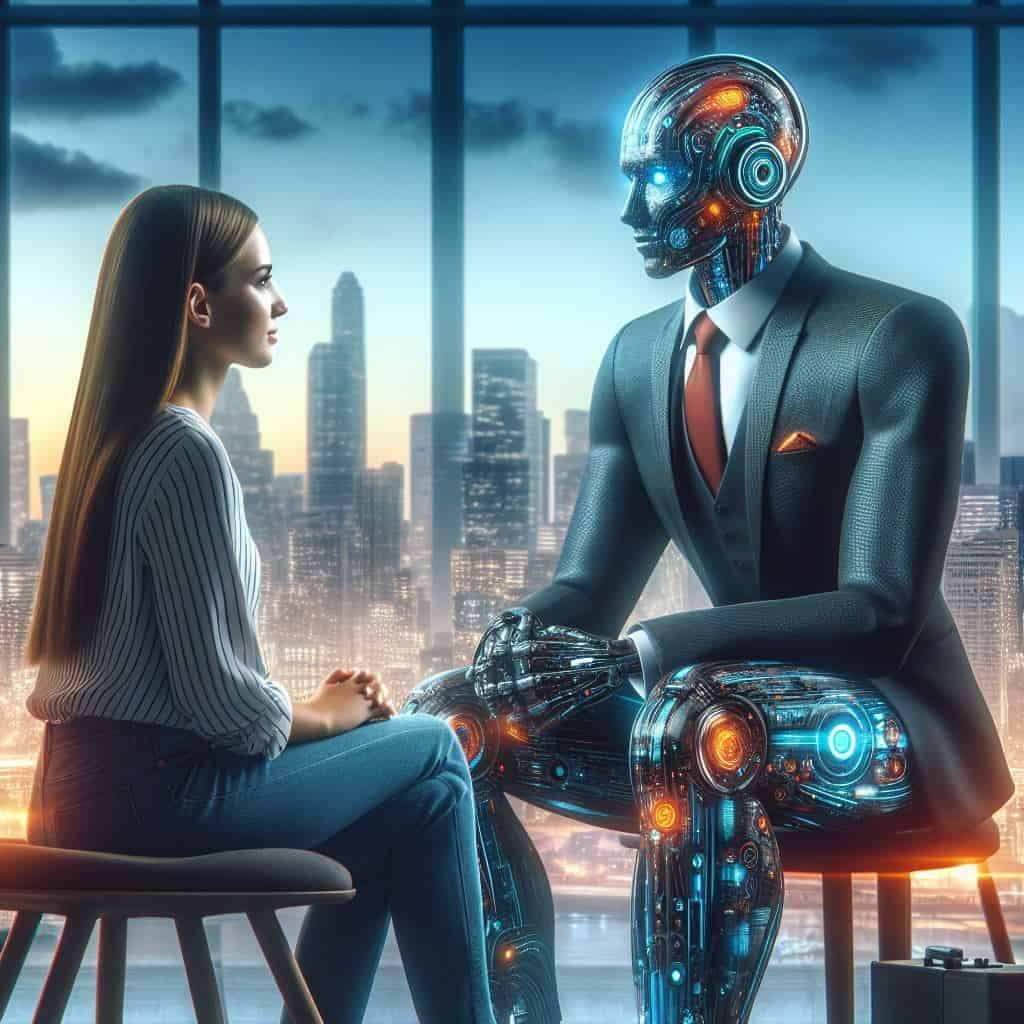
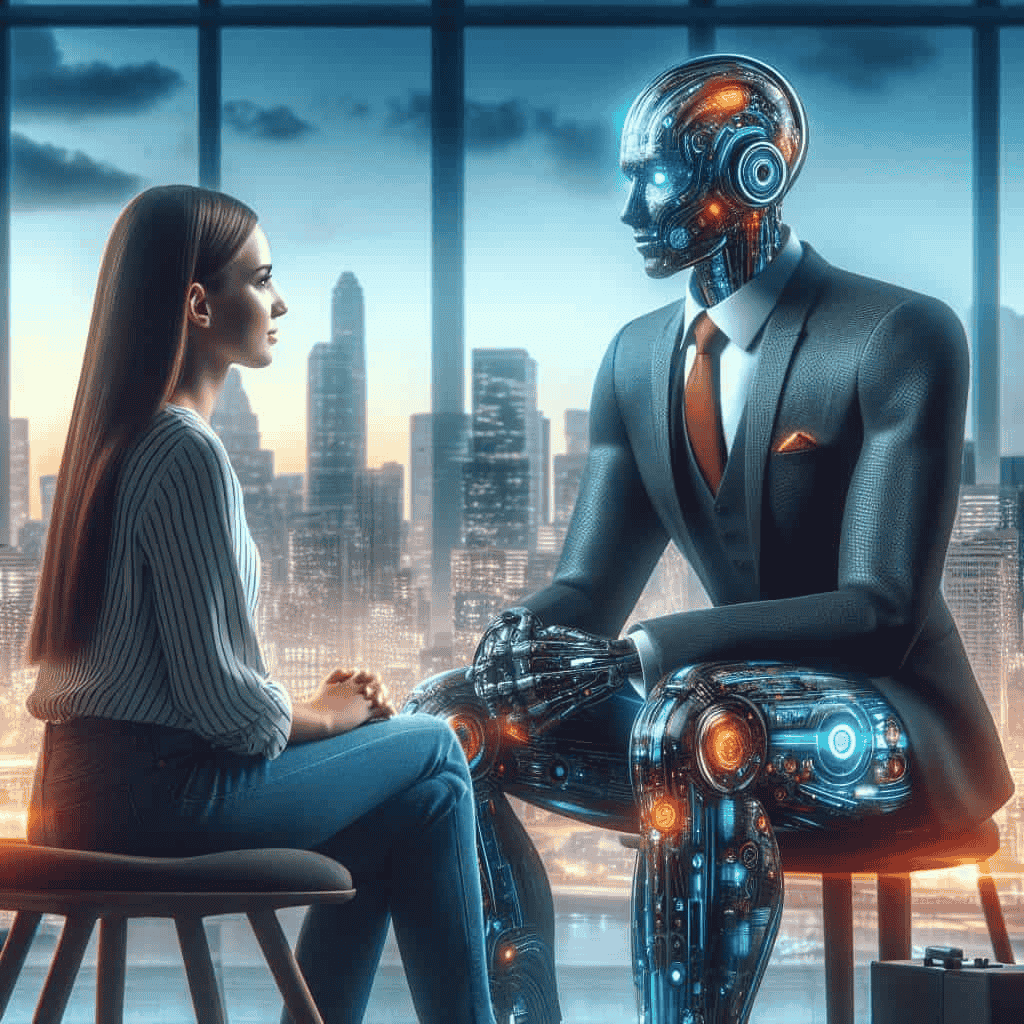
reduce picture size

diff --git a/app/(auth)/_components/auth-form.jsx b/app/(auth)/_components/auth-form.jsx
@@ -304,9 +304,11 @@ const AuthForm = ({ type }) => {
 				<div className="relative hidden bg-muted lg:block h-[560px]">
 					<Image
 						src="/ai-career-coach.png"
-						fill
-						alt="Image"
-						className="absolute inset-0 h-full w-full object-cover object-center"
+						width={900}
+						height={560}
+						alt="Banner image"
+						className="absolute inset-0 h-[560px] w-auto object-cover object-center"
+						priority
 					/>
 				</div>
 			</CardContent>

diff --git a/app/(auth)/_components/google-login.jsx b/app/(auth)/_components/google-login.jsx
@@ -62,6 +62,7 @@ const SignInWithGoogle = () => {
 					width={20}
 					height={20}
 					alt="Google logo"
+					priority
 				/>
 				<span className="ml-1">Continue with Google</span>
 			</Button>
